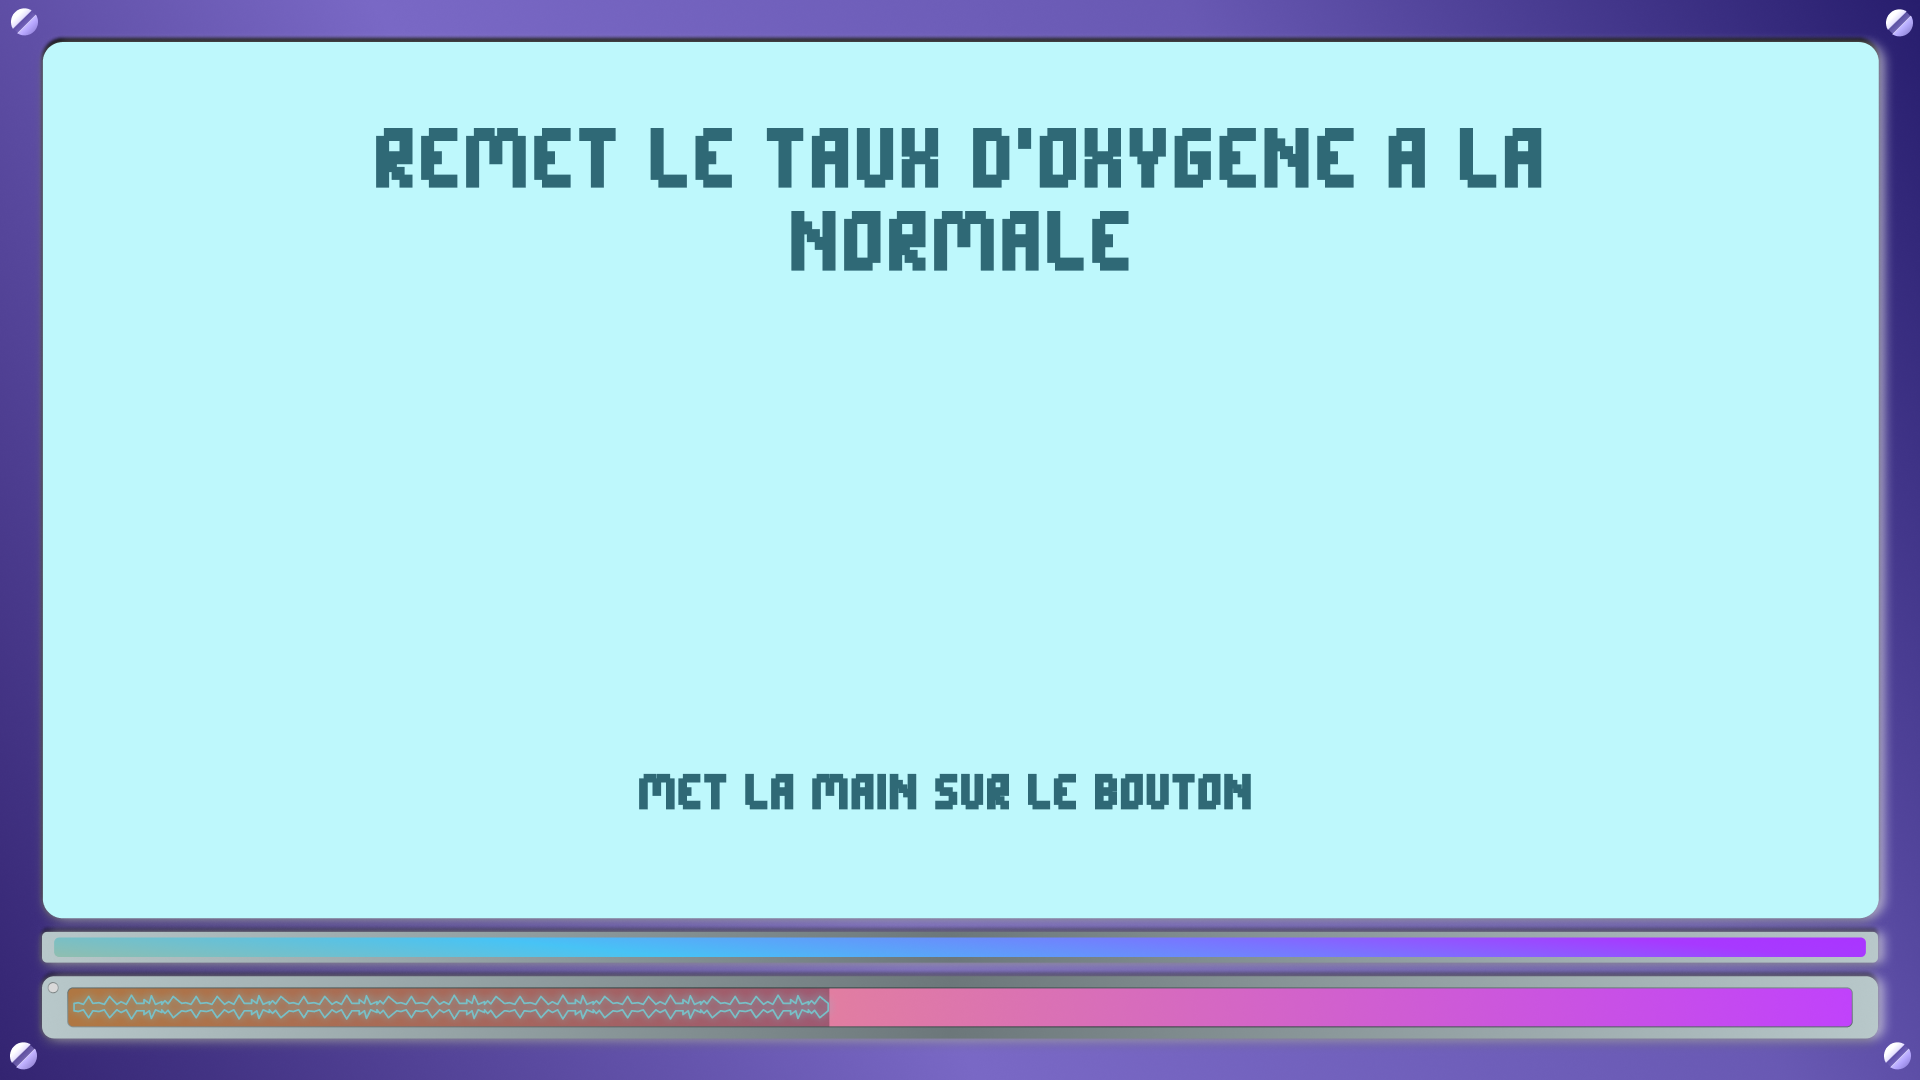
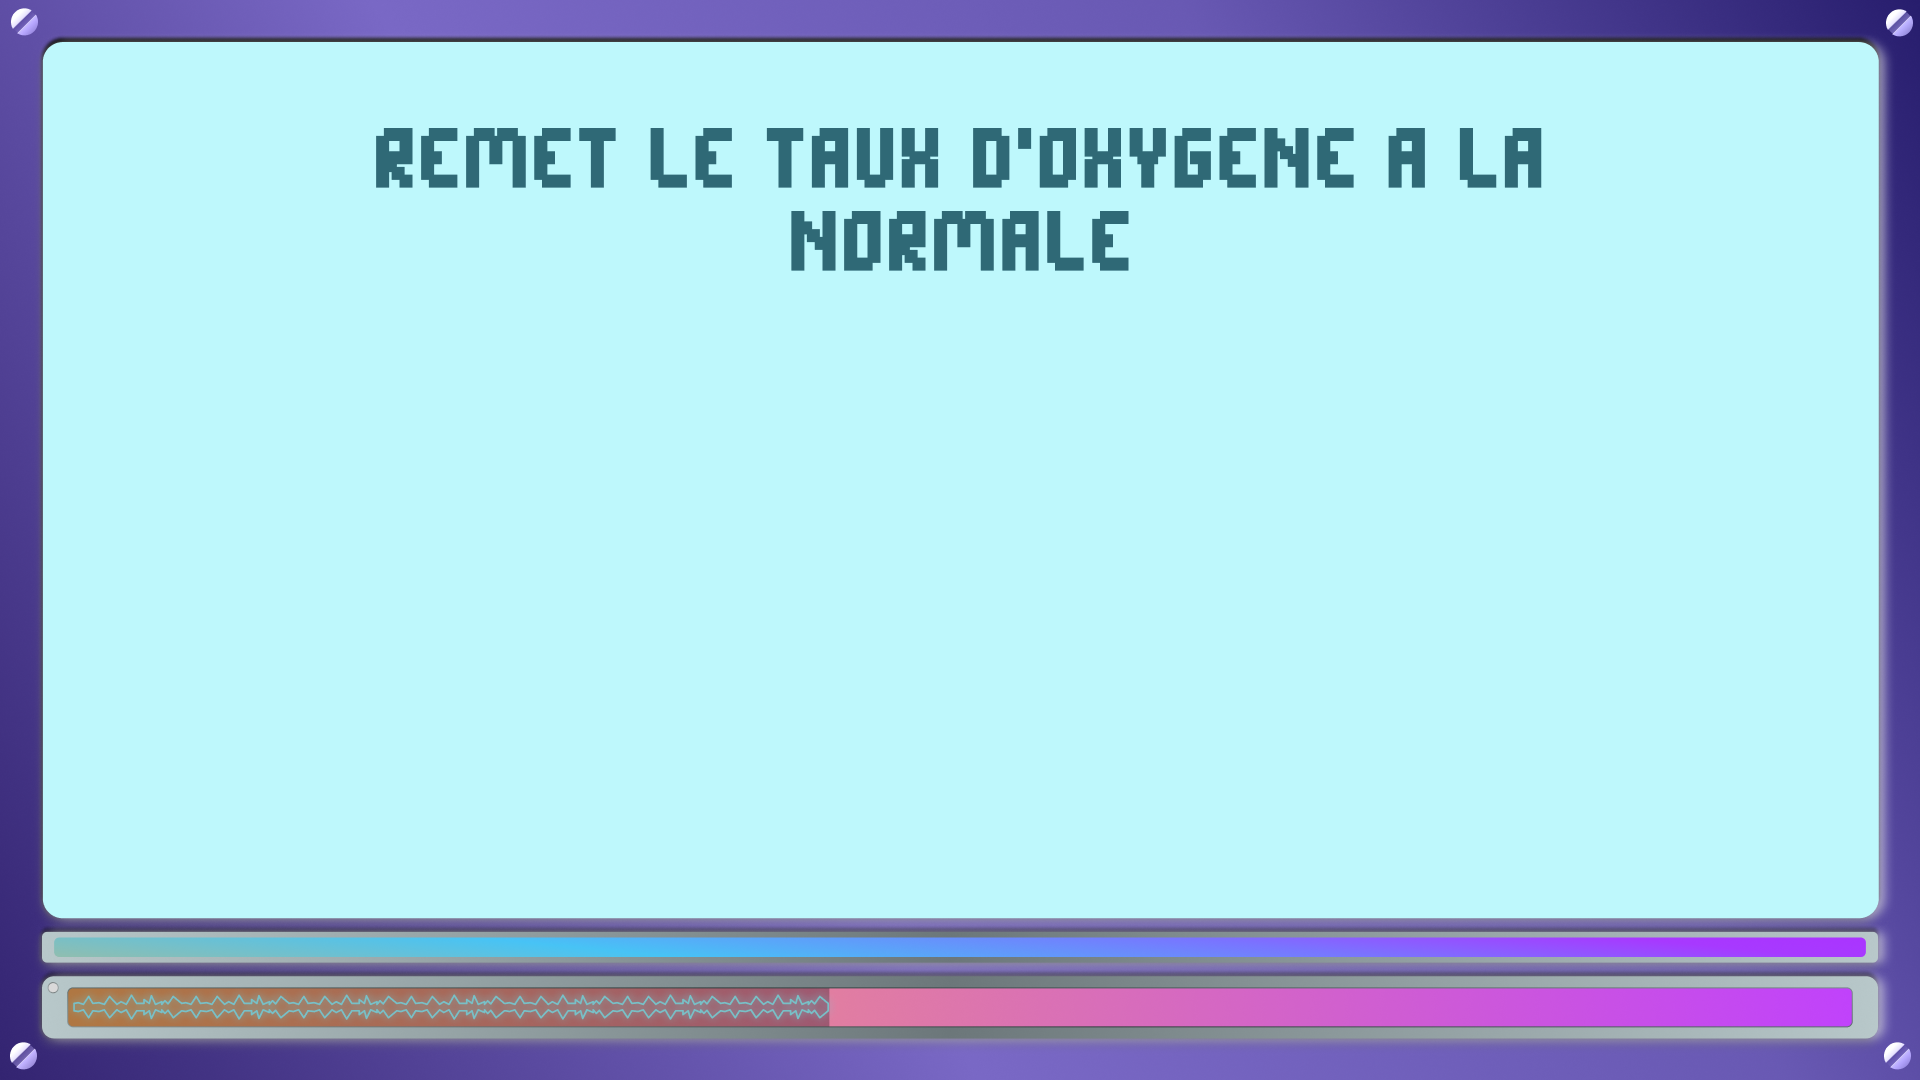
✨ Every slides : Change instructions opacity

Changed region(s): [[0.3125, 0.7028, 0.6562, 0.7639]]

diff --git a/style.scss b/style.scss
@@ -245,6 +245,18 @@ canvas {
   }
 }
 
+.blinking-text {
+  position: absolute;
+  bottom: 220px;
+  color: #2f6976;
+  font-family: "Bitsential";
+  font-weight: 900;
+  font-size: 55px;
+  letter-spacing: 0.6px;
+  opacity: 1;
+  animation: recAnimation 2s infinite 1s;
+}
+
 .canvasbox {
   display: flex;
   position: absolute;
@@ -299,15 +311,9 @@ canvas {
   position: absolute;
   z-index: 501;
 }
-#cursor {
-  position: fixed;
-  z-index: 500;
-  bottom: -100px;
-  width: 100px;
-  height: 100px;
-  background-color: #0095ff32;
-  border: 1px solid #0095ff;
-  border-radius: 10%;
+
+.step-5-text {
+  bottom: 150px;
 }
 .sliders {
   display: flex;
@@ -404,6 +410,10 @@ input[type="range"]:not(.vertical) {
 
 .step-7-btn {
   width: 200px;
+}
+
+.step-7-text {
+  bottom: 180px;
 }
 
 //**************************//

diff --git a/html/step7.html b/html/step7.html
@@ -14,6 +14,8 @@
       <img class="step-7-btn4" src="../images/step-7-button-disable.png" />
     </div>
 
+    <h1 class="step-7-text blinking-text">Trouve le mot de passe</h1>
+
     <canvas id="canvas" class="border canvasbox"></canvas>
     <video id="myvideo" class="videobox" autoplay="autoplay"></video>
     <div class="cursor"></div>

diff --git a/html/step4.html b/html/step4.html
@@ -14,6 +14,7 @@
     <button class="btn">
       <img src="../images/step-4-button.png" />
     </button>
+    <h1 class="blinking-text">Met la main sur le bouton</h1>
     <canvas id="canvas" class="border canvasbox"></canvas>
     <video id="myvideo" class="videobox" autoplay="autoplay"></video>
     <div class="cursor"></div>

diff --git a/html/step5.html b/html/step5.html
@@ -41,6 +41,7 @@
       </div>
     </div>
     <h1 class="timer">30</h1>
+    <h1 class="step-5-text blinking-text">Attrape le slider</h1>
     <div class="camera-container">
       <div class="camDiv">
         <canvas id="step5_canvasbox" class="border step5_canvasbox"></canvas>
